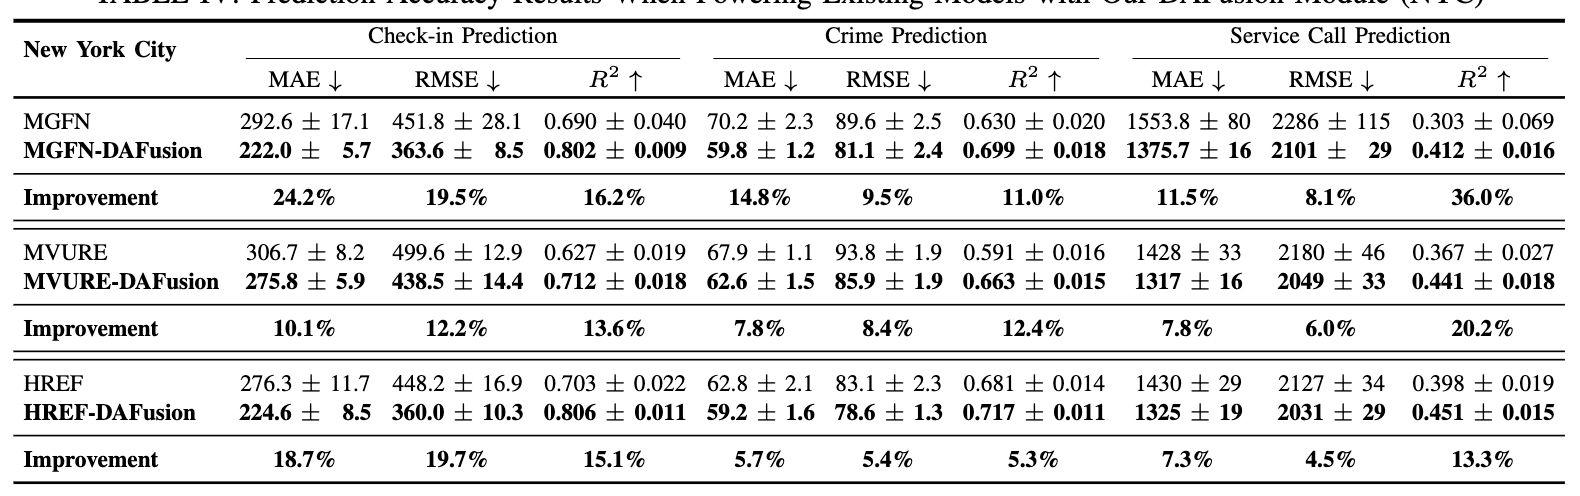
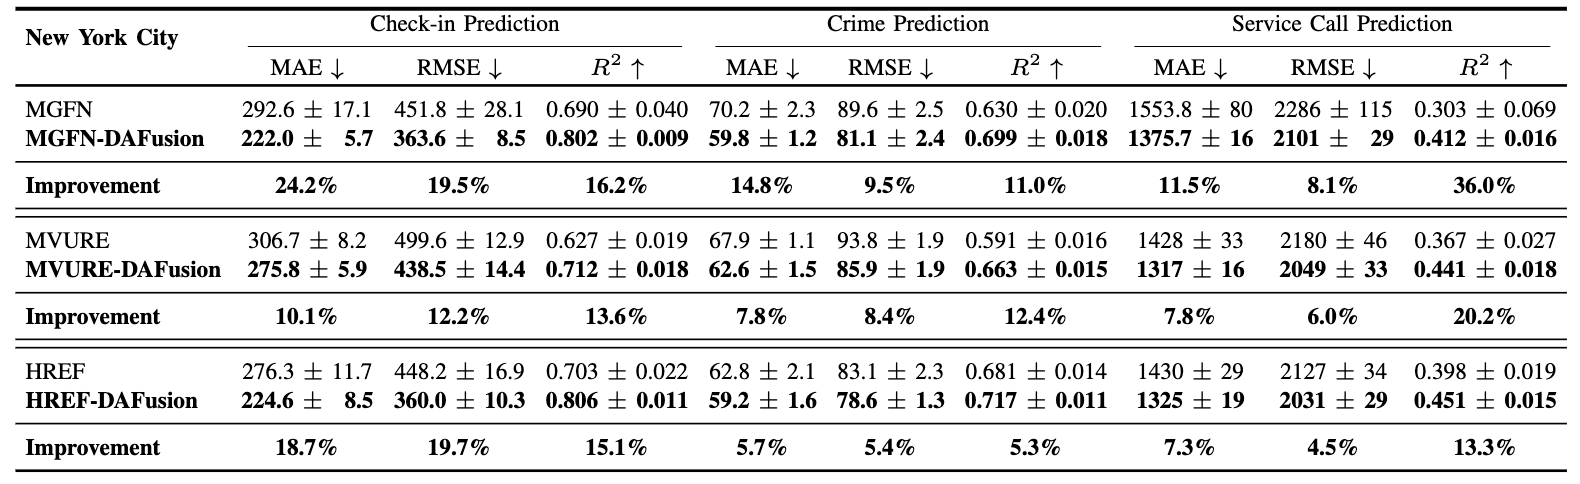
edit readme

Changed region(s): [[0.0, 0.0, 0.9924, 0.9917]]

diff --git a/README.md b/README.md
@@ -5,11 +5,15 @@ This is a pytorh implementation of the [HAFusion paper](https://arxiv.org/abs/23
 Authors: Fengze Sun, Jianzhong Qi, Yanchuan Chang, Xiaoliang Fan, Shanika Karunasekera, and Egemen Tanin
 
 ## Model Structure
- <center><img src="Images/model structure.png" width='600px' > </center>
+<p align="center">
+    <img src="Images/model structure.png" style="max-width: 80%;" >
+</p>
 
 ## Experiments
 <p align="center"><strong>Overall Prediction Accuracy Results</strong></p>
- <center><img src="Images/Experiment.png" width='600px' > </center>
+<p align="center">
+    <img src="Images/Experiment.png" style="max-width: 80%;"> 
+</p>
 
 ## Requirements
 - Python 3.8.18
